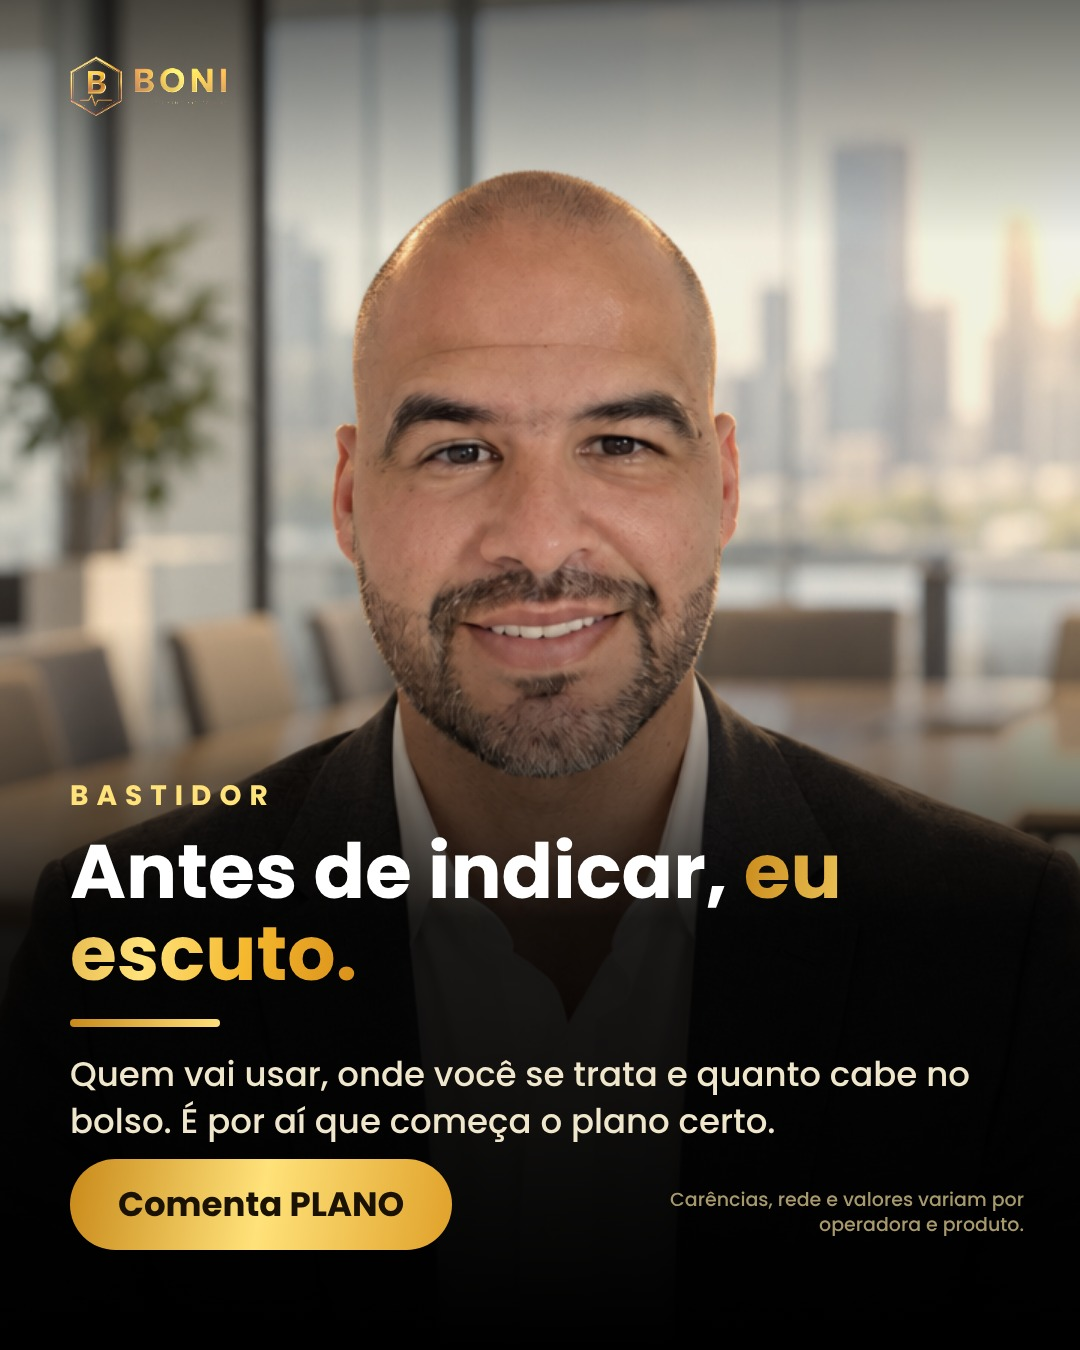
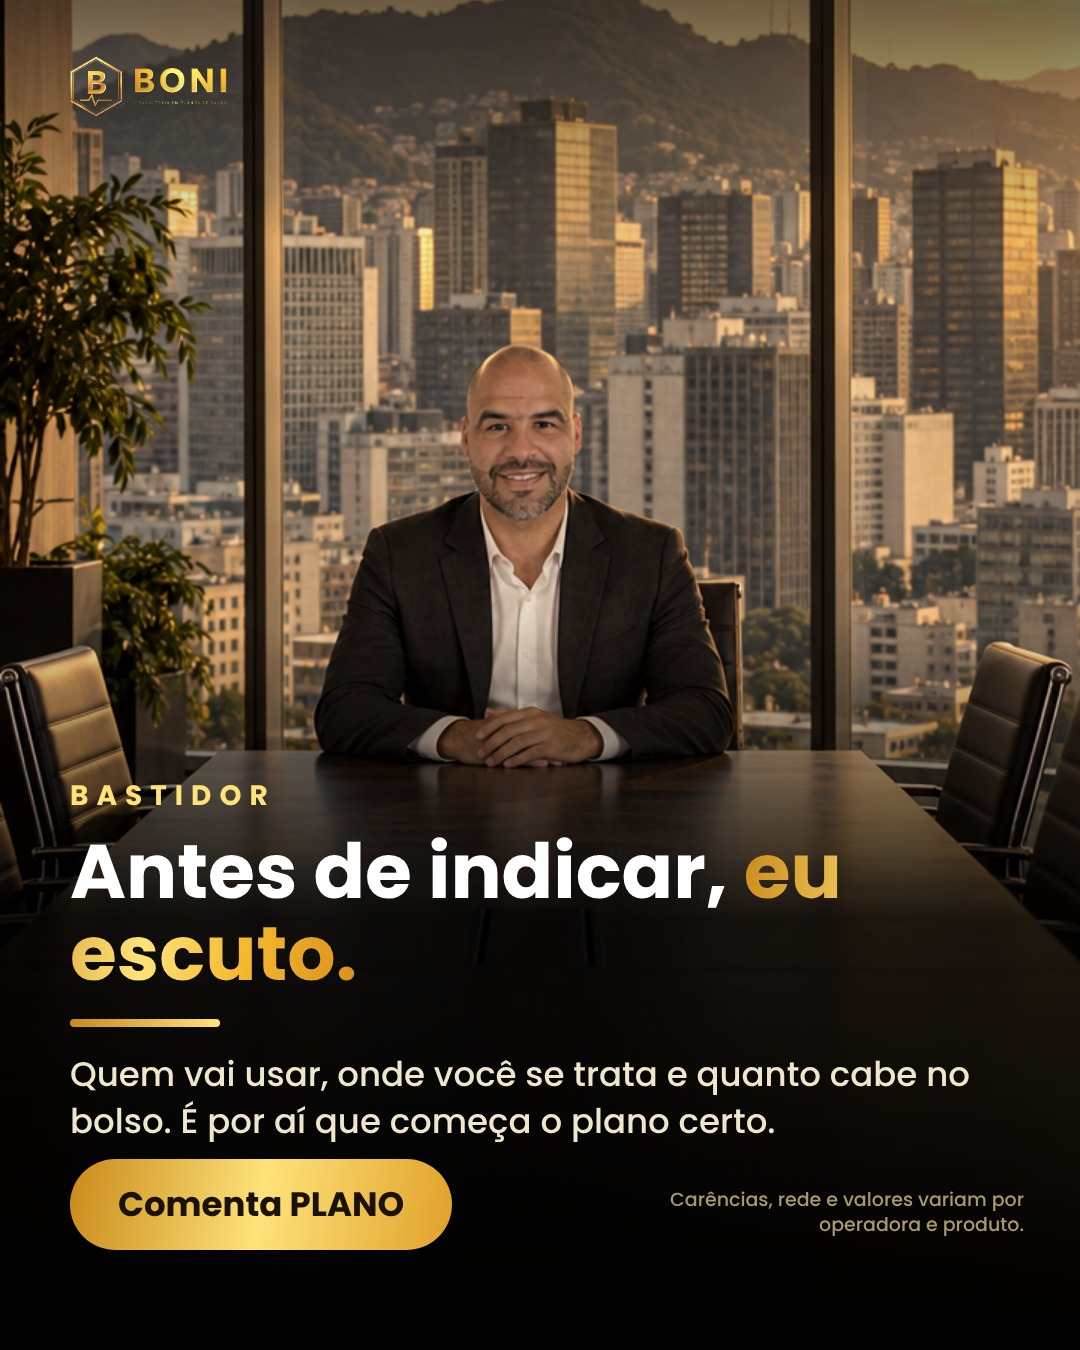
Post 22: visual reunião mais distante, Centro do Rio na janela
Claude-Session: https://claude.ai/code/session_016UNNimnYsNx4a66oMiDygB

diff --git a/posts/22-antes-eu-escuto/_foto.html b/posts/22-antes-eu-escuto/_foto.html
@@ -3,7 +3,7 @@
 @font-face{font-family:P;font-weight:700;src:url('file:///home/claude/boni-instagram-posts/fontes/Poppins-Bold.ttf')}
 *{margin:0;padding:0;box-sizing:border-box}
 .s{width:1080px;height:1350px;position:relative;overflow:hidden;background:#000;font-family:P,sans-serif;color:#fff}
-.bg{position:absolute;left:0;top:-140px;width:1080px;filter:sepia(.25) saturate(1.1) brightness(.92) contrast(1.06)}
+.bg{position:absolute;left:0;top:-260px;width:1080px;filter:sepia(.25) saturate(1.1) brightness(.92) contrast(1.06)}
 .ov{position:absolute;inset:0;background:linear-gradient(180deg,rgba(0,0,0,.55) 0%,rgba(0,0,0,0) 18%,rgba(0,0,0,0) 46%,rgba(0,0,0,.88) 68%,#000 100%)}
 .lg{position:absolute;left:56px;top:46px;height:80px;mix-blend-mode:lighten}
 .gold{background:linear-gradient(100deg,#c98a1a,#ffe27a 45%,#f5b82e 70%,#d98f1a);-webkit-background-clip:text;color:transparent}
@@ -14,4 +14,4 @@
 .p{font-size:34px;font-weight:500;line-height:1.38;color:#f0e6cc}
 .btn{position:absolute;left:70px;bottom:100px;padding:20px 48px;border-radius:60px;background:linear-gradient(100deg,#c98a1a,#ffe27a 50%,#e0a12a);color:#1a1205;font-size:34px;font-weight:700}
 .av{position:absolute;right:56px;bottom:112px;width:420px;text-align:right;font-size:19px;color:#a8996d;line-height:1.35}
-</style></head><body><section class="s" id="s1"><img class="bg" src="file:///home/claude/boni-instagram-posts/fotos/avatar/reuniao.png"><div class="ov"></div><img class="lg" src="file:///home/claude/boni-instagram-posts/marca/logo-horizontal.png"><div class="blk"><div class="tg">BASTIDOR</div><div class="h">Antes de indicar, <span class="gold">eu escuto.</span></div><div class="ln"></div><div class="p">Quem vai usar, onde você se trata e quanto cabe no bolso. É por aí que começa o plano certo.</div></div><div class="btn">Comenta PLANO</div><div class="av">Carências, rede e valores variam por operadora e produto.</div></section></body></html>
+</style></head><body><section class="s" id="s1"><img class="bg" src="file:///home/claude/boni-instagram-posts/fotos/avatar/reuniao-longe.png"><div class="ov"></div><img class="lg" src="file:///home/claude/boni-instagram-posts/marca/logo-horizontal.png"><div class="blk"><div class="tg">BASTIDOR</div><div class="h">Antes de indicar, <span class="gold">eu escuto.</span></div><div class="ln"></div><div class="p">Quem vai usar, onde você se trata e quanto cabe no bolso. É por aí que começa o plano certo.</div></div><div class="btn">Comenta PLANO</div><div class="av">Carências, rede e valores variam por operadora e produto.</div></section></body></html>
